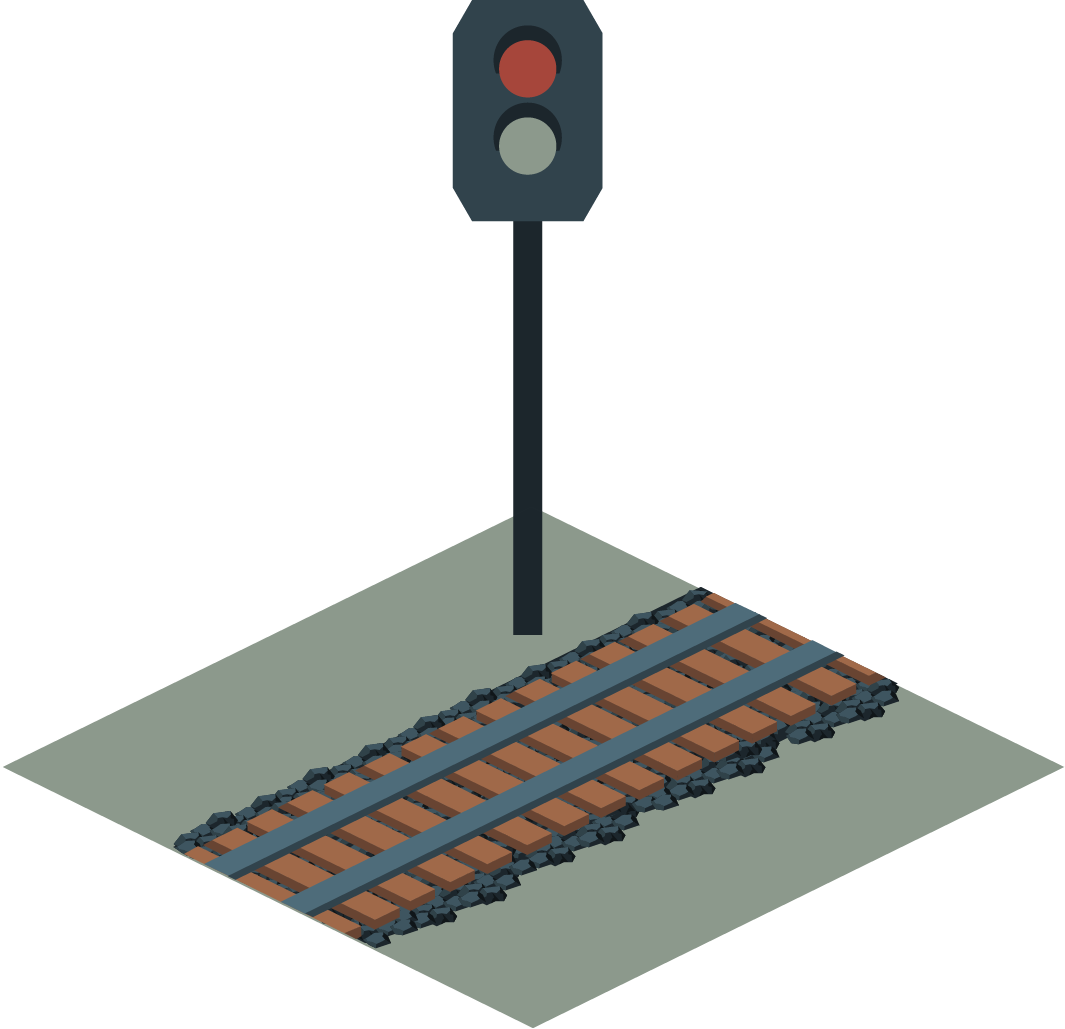
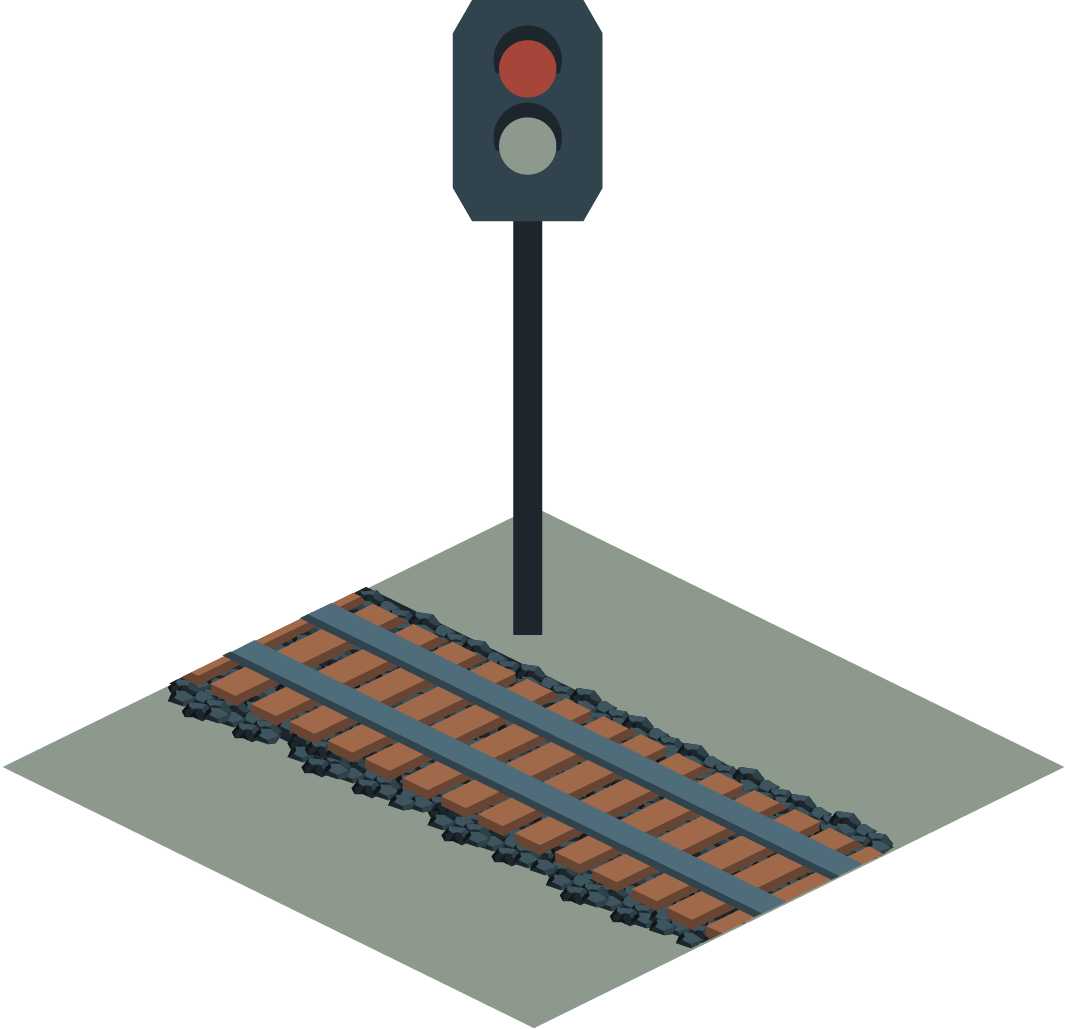
images renamed

Changed region(s): [[0.1549, 0.5598, 0.8676, 0.9329]]

diff --git a/src/view/ObjectToImageMapping.java b/src/view/ObjectToImageMapping.java
@@ -49,7 +49,7 @@ public class ObjectToImageMapping {
         mapping.put("rail-ne-se", "rail/rail-ne-se");
         mapping.put("rail-nw-sw", "rail/rail-nw-sw");
         mapping.put("rail-ne-nw", "rail/rail-ne-nw");
-        mapping.put("rail-sw-se", "rail/rail-sw-se");
+        mapping.put("rail-sw-se", "rail/rail-se-sw");
         mapping.put("railcurve-ne-s", "rail/railcurve-ne-s");
         mapping.put("railcurve-ne-w", "rail/railcurve-ne-w");
         mapping.put("railcurve-nw-e", "rail/railcurve-nw-e");

diff --git a/src/controller/Main.java b/src/controller/Main.java
@@ -41,7 +41,7 @@ public class Main extends Application {
         JSONParser parser = new JSONParser();
         BasicModel model = new BasicModel();
 
-        if (parser.parse("resources/VitaExMachina/VitaExMachina.json", model)) {
+        if (parser.parse("resources/planverkehr/planverkehr.json", model)) {
 //            model.printModelAttributes();
             View view = new View(stage, model);
             stage.setTitle("Vita Ex Machina");
